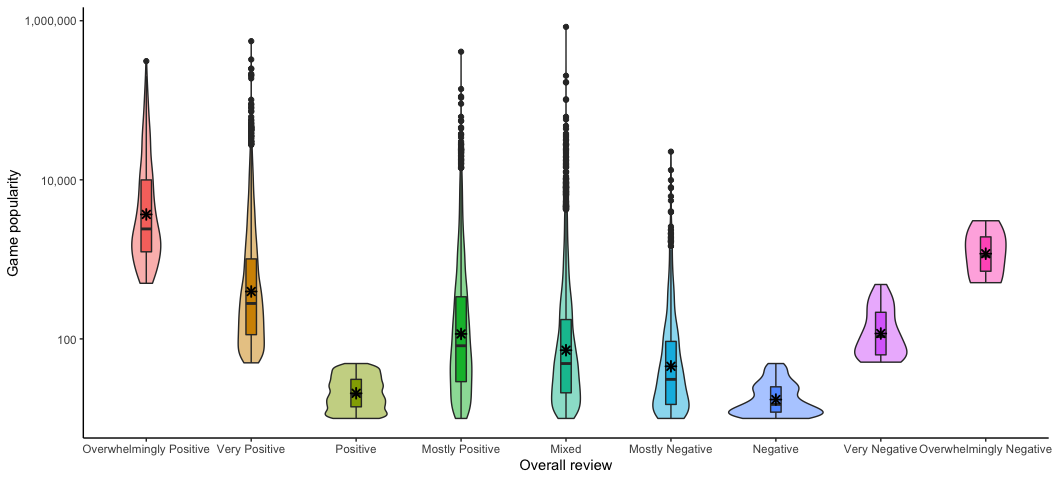
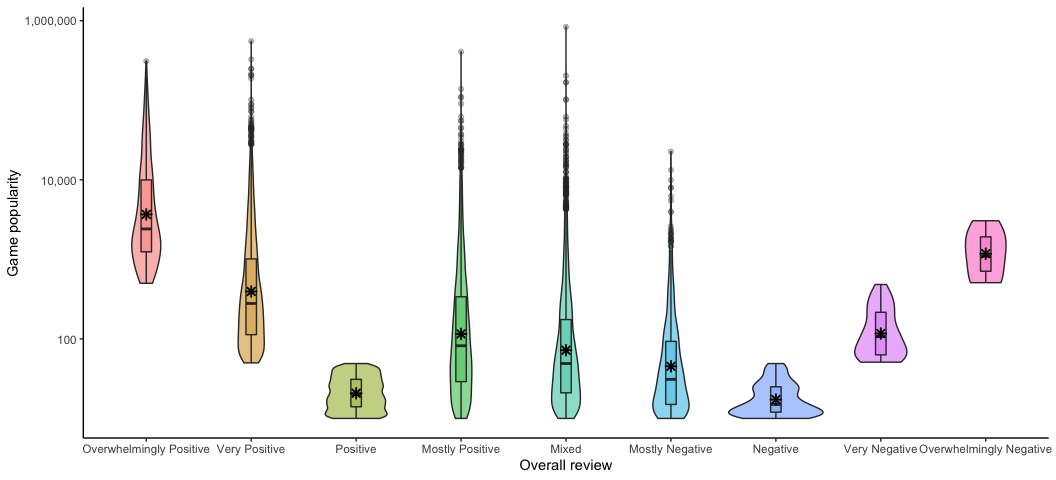
Change the name of variable number_all_reviews to popularity to improve the understanding of the dataset

diff --git a/mda_milestone_2.md b/mda_milestone_2.md
@@ -350,30 +350,30 @@ To get the number of reviews it and make it a new independent column, I could no
 
 ``` r
 steam_games_q1 = (steam_games_q1 %>%
-                    mutate(number_all_reviews = sub(").*", "",all_reviews),#Create a new column removing all of the characters after the ")" bracket in all_reviews
-                           number_all_reviews = sub(".*\\(","", number_all_reviews), #Remove all of the characters before the "(" bracket of the number_all_reviews column
-                           number_all_reviews = sub(",","", number_all_reviews),  #Eliminate the commas that separate the numbers so that I can coerce them to numeric
-                           number_all_reviews = as.numeric(number_all_reviews)) #Coerce the values to numeric
+                    mutate(popularity = sub(").*", "",all_reviews),#Create a new column removing all of the characters after the ")" bracket in all_reviews
+                           popularity = sub(".*\\(","", popularity), #Remove all of the characters before the "(" bracket of the popularity column
+                           popularity = sub(",","", popularity),  #Eliminate the commas that separate the numbers so that I can coerce them to numeric
+                           popularity = as.numeric(popularity)) #Coerce the values to numeric
                   ) 
 
 #Check that the final tibble is correct
 steam_games_q1 %>% 
-  select(id, all_reviews, number_all_reviews) %>% 
+  select(id, all_reviews, popularity) %>% 
   head() %>% 
   knitr::kable(format = "markdown")
 ```
 
-<table>
+<table style="width:100%;">
 <colgroup>
 <col width="3%" />
-<col width="78%" />
-<col width="18%" />
+<col width="84%" />
+<col width="11%" />
 </colgroup>
 <thead>
 <tr class="header">
 <th align="right">id</th>
 <th align="left">all_reviews</th>
-<th align="right">number_all_reviews</th>
+<th align="right">popularity</th>
 </tr>
 </thead>
 <tbody>
@@ -414,16 +414,16 @@ After extracting the review numbers, I computed the summary statistics of the nu
 
 ``` r
 steam_games_q1 %>% 
-  filter(!is.na(number_all_reviews), #Remove the games that have NA or NaN in the number of reviews column
+  filter(!is.na(popularity), #Remove the games that have NA or NaN in the number of reviews column
          all_reviews_category %in% (steam_games_q1$all_reviews_category %>% 
                                       table() %>% 
                                       names())[1:9]) %>% #Remove the games that did not have enough reviews to have an overall review (discussed in Q1 - Extract categories)
   group_by(all_reviews_category) %>% 
-  summarise(mean_reviews = mean(number_all_reviews), #Compute the summary statistics
-            std_reviews = sd(number_all_reviews),
-            median_reviews = median(number_all_reviews),
-            min_reviews = min(number_all_reviews),
-            max_reviews = max(number_all_reviews)) %>% 
+  summarise(mean_reviews = mean(popularity), #Compute the summary statistics
+            std_reviews = sd(popularity),
+            median_reviews = median(popularity),
+            min_reviews = min(popularity),
+            max_reviews = max(popularity)) %>% 
   knitr::kable(format = "markdown")
 ```
 
@@ -522,19 +522,19 @@ steam_games_q1 %>%
 </tbody>
 </table>
 
-> Graphing: Create a graph out of summarized variables that has at least two geom layers. Plot the ditribution: violin plot + jitter plot or barplot + jitter plot
+> Graphing task: Create a graph out of summarized variables that has at least two geom layers & Create a graph of your choosing, make one of the axes logarithmic, and format the axes labels so that they are "pretty" or easier to read.
 
 Finally, I plotted the popularity distribution of the games per category, marking the mean as an asterisk.
 
 ``` r
 steam_games_q1 %>% 
-  filter(!is.na(number_all_reviews), #Remove the games that have NA in the number of reviews
+  filter(!is.na(popularity), #Remove the games that have NA in the number of reviews
          all_reviews_category %in% (steam_games_q1$all_reviews_category %>% 
                                       table() %>% 
                                       names())[1:9]) %>% #Remove the games that did not have enough reviews to have an overall review (discussed in Q1 - Extract categories) 
-  ggplot(aes(x = all_reviews_category, y = number_all_reviews, fill = all_reviews_category))+
+  ggplot(aes(x = all_reviews_category, y = popularity, fill = all_reviews_category))+
   geom_violin( alpha = 0.5) +
-  geom_boxplot(width= 0.1) +
+  geom_boxplot(width= 0.1, alpha = 0.3) +
   stat_summary(fun = mean, colour = "black", shape = 8)+
   scale_y_log10(label = scales::label_dollar(prefix = "")) +
   ylab("Game popularity")+
@@ -545,17 +545,131 @@ steam_games_q1 %>%
 
 ![](mda_milestone_2_files/figure-markdown_github/unnamed-chunk-13-1.png)
 
-Here,
+With these tasks, I could see that there is a difference in the popularity distribution of the games across different categories. Games with positive and negative reviews tend to be less popular than games with overwhelmingly positive or overwhelmingly negative results. I would be interested in doing a statistical test to evaluate each category and know which ones are statistically significantly different from others. For what I can see here, probably more than 2 categories could be different to at least 2 other groups.
 
 #### Q4: Which developer produces the most popular games (i.e games with more reviews)?
 
-> Summarizing task: Compute the *range*, *mean*, and *two other summary statistics* of **one numerical variable** across the groups of **one categorical variable** from your data.
+> Summarizing task: Compute the *range*, *mean*, and *two other summary statistics* of **one numerical variable** across the groups of **one categorical variable** from your data & Compute the number of observations for at least one of your categorical variables
 
-Summary statistic of number of reviews per developer
+For this research question, I needed the popularity numbers of each game, which was obtained in the previous section (Q3). Therefore, I used `steam_games_q1` again as my starting point. Then, I computed the summary statistics of the popularity measure (number of reviews) across the different developers, as well as the number of games that each developer has.
+
+*1. Summary statistics of popularity per developer*
+
+``` r
+steam_games_q1 %>% 
+  filter(!is.na(popularity), #Remove the games that have NA or NaN in the number of reviews column
+         all_reviews_category %in% (steam_games_q1$all_reviews_category %>% 
+                                      table() %>% 
+                                      names())[1:9]) %>% #Remove the games that did not have enough reviews to have an overall review (discussed in Q1 - Extract categories)
+  group_by(all_reviews_category) %>% 
+  summarise(mean_reviews = mean(popularity), #Compute the summary statistics
+            std_reviews = sd(popularity),
+            median_reviews = median(popularity),
+            min_reviews = min(popularity),
+            max_reviews = max(popularity)) %>% 
+  knitr::kable(format = "markdown")
+```
+
+<table>
+<colgroup>
+<col width="26%" />
+<col width="14%" />
+<col width="13%" />
+<col width="17%" />
+<col width="13%" />
+<col width="13%" />
+</colgroup>
+<thead>
+<tr class="header">
+<th align="left">all_reviews_category</th>
+<th align="right">mean_reviews</th>
+<th align="right">std_reviews</th>
+<th align="right">median_reviews</th>
+<th align="right">min_reviews</th>
+<th align="right">max_reviews</th>
+</tr>
+</thead>
+<tbody>
+<tr class="odd">
+<td align="left">Overwhelmingly Positive</td>
+<td align="right">12966.71340</td>
+<td align="right">31030.43172</td>
+<td align="right">2413</td>
+<td align="right">500</td>
+<td align="right">310394</td>
+</tr>
+<tr class="even">
+<td align="left">Very Positive</td>
+<td align="right">2319.68437</td>
+<td align="right">13665.27086</td>
+<td align="right">279</td>
+<td align="right">50</td>
+<td align="right">553458</td>
+</tr>
+<tr class="odd">
+<td align="left">Positive</td>
+<td align="right">23.11771</td>
+<td align="right">10.91703</td>
+<td align="right">20</td>
+<td align="right">10</td>
+<td align="right">49</td>
+</tr>
+<tr class="even">
+<td align="left">Mostly Positive</td>
+<td align="right">1112.16490</td>
+<td align="right">8761.78135</td>
+<td align="right">82</td>
+<td align="right">10</td>
+<td align="right">407706</td>
+</tr>
+<tr class="odd">
+<td align="left">Mixed</td>
+<td align="right">846.76795</td>
+<td align="right">13464.48441</td>
+<td align="right">49</td>
+<td align="right">10</td>
+<td align="right">836608</td>
+</tr>
+<tr class="even">
+<td align="left">Mostly Negative</td>
+<td align="right">232.24297</td>
+<td align="right">1164.27441</td>
+<td align="right">31</td>
+<td align="right">10</td>
+<td align="right">22589</td>
+</tr>
+<tr class="odd">
+<td align="left">Negative</td>
+<td align="right">19.33333</td>
+<td align="right">10.12607</td>
+<td align="right">15</td>
+<td align="right">10</td>
+<td align="right">49</td>
+</tr>
+<tr class="even">
+<td align="left">Very Negative</td>
+<td align="right">148.02703</td>
+<td align="right">111.80476</td>
+<td align="right">107</td>
+<td align="right">51</td>
+<td align="right">483</td>
+</tr>
+<tr class="odd">
+<td align="left">Overwhelmingly Negative</td>
+<td align="right">1426.85714</td>
+<td align="right">925.46915</td>
+<td align="right">1096</td>
+<td align="right">509</td>
+<td align="right">3057</td>
+</tr>
+</tbody>
+</table>
 
 > Graphing task: Create a graph out of summarized variables that has at least two geom layers
 
 Plot the distribution of reviews for each developer. Boxplot + Jitterplot
+
+Do top popularity developers have as well top-reviewed games?
 
 ### 1.3 (2.5 points)
 
